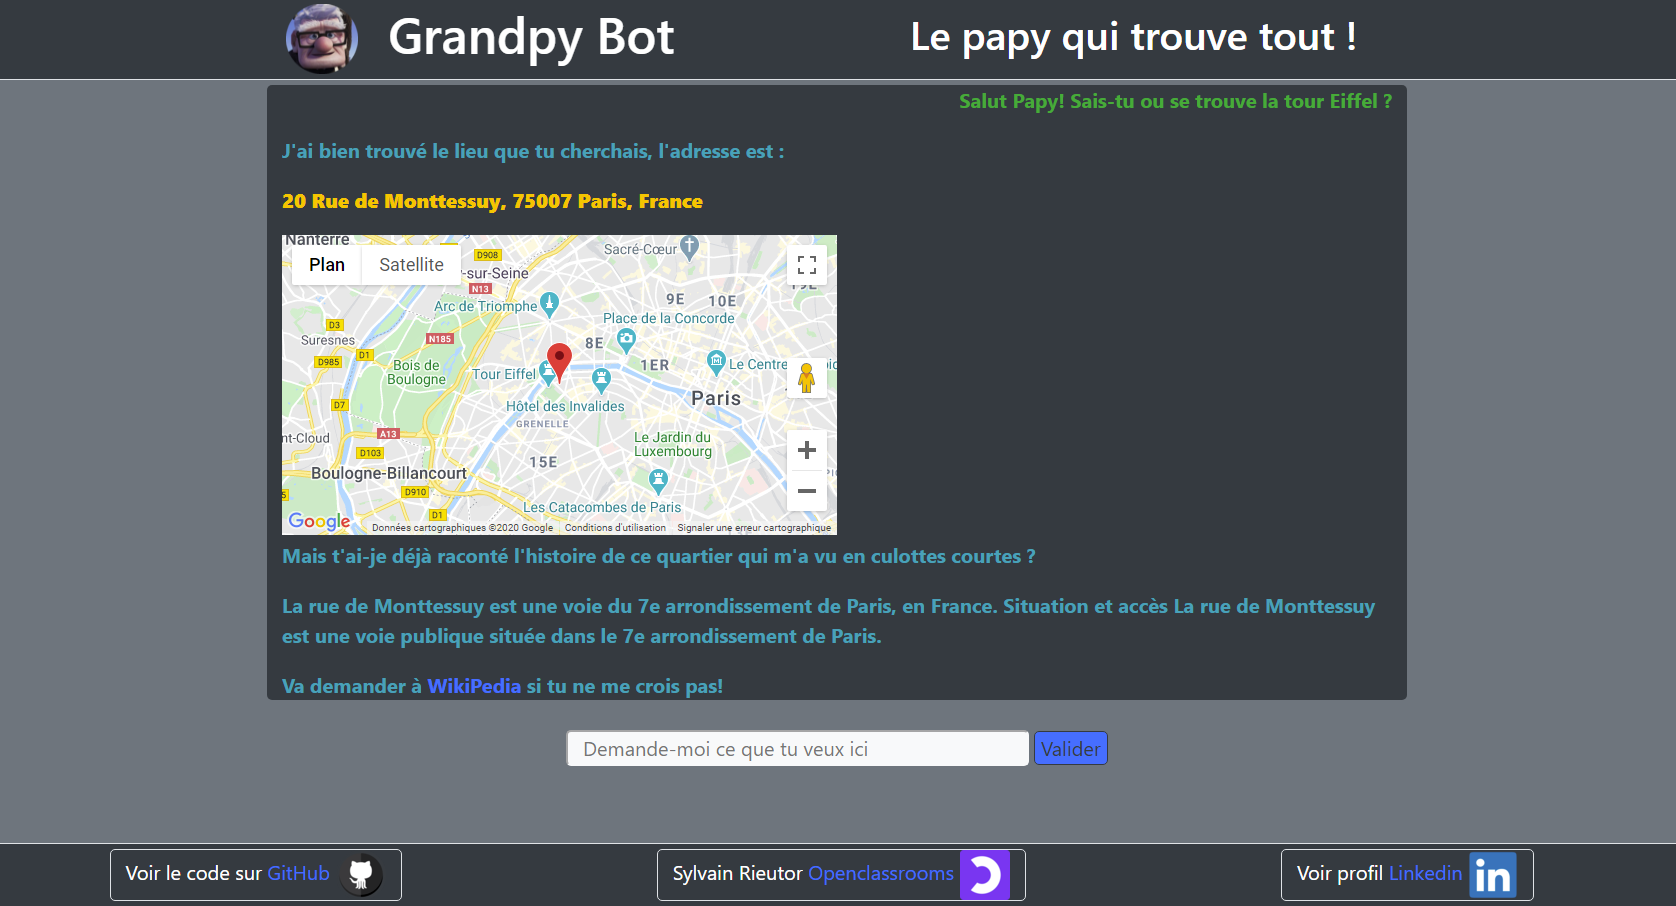
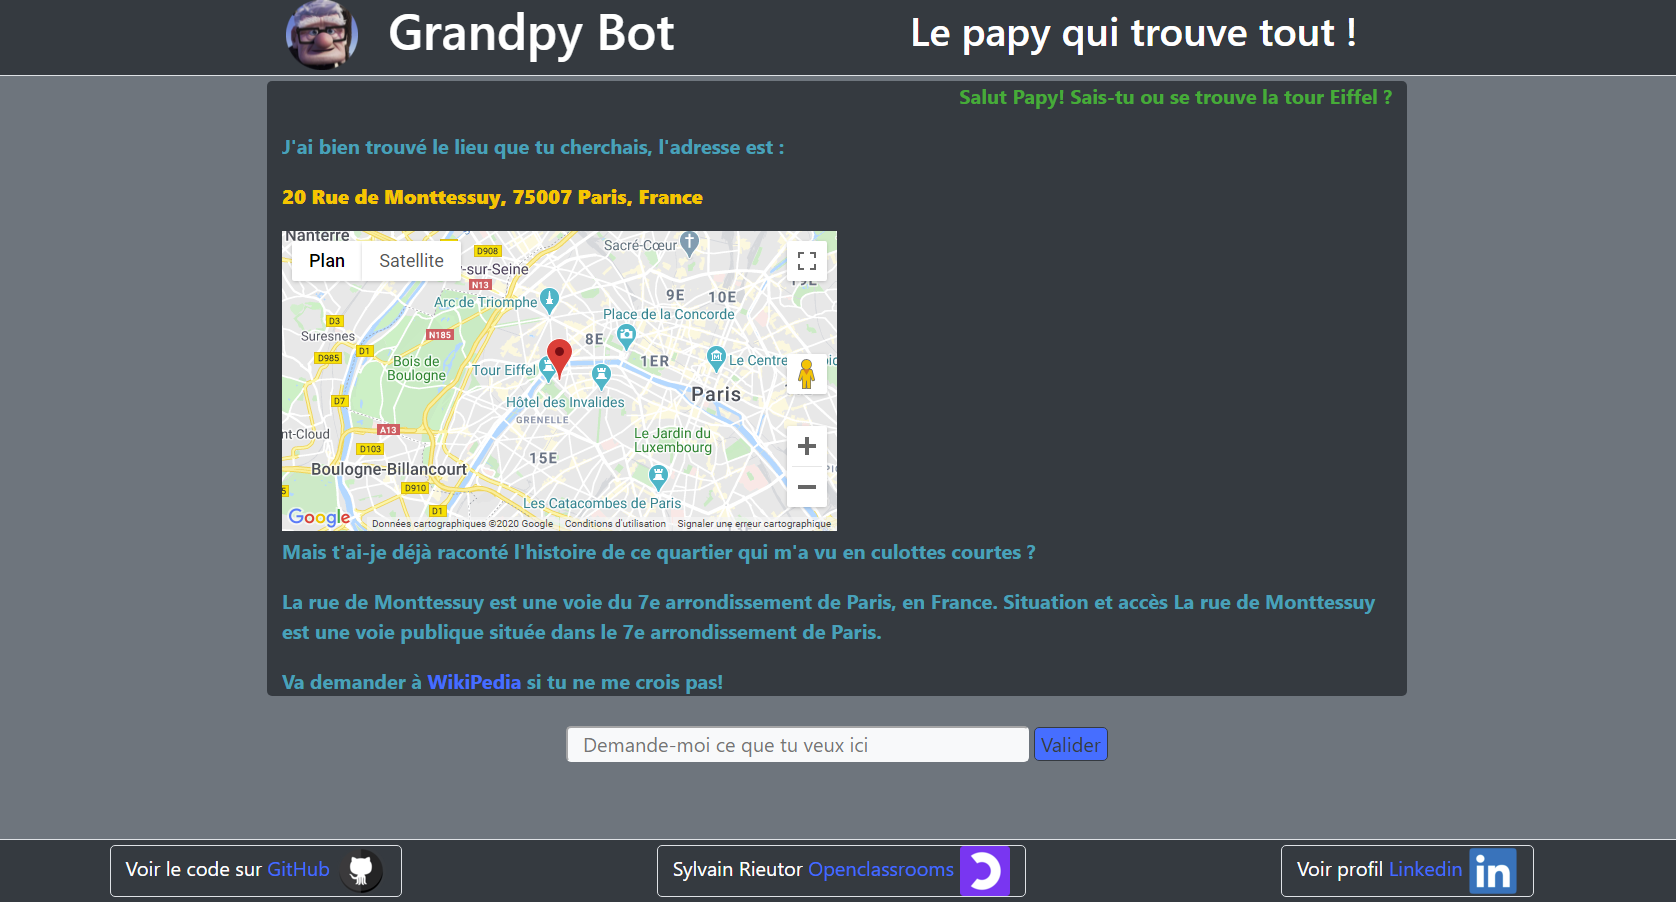
change Js and readme

diff --git a/app/static/js/index.js b/app/static/js/index.js
@@ -48,9 +48,16 @@ function grandpy(response) {
 
   if (fullurl != "") {
     var newP = elt.appendChild(document.createElement("p"));
+    newP.id = 'link';
     newP.innerHTML += (
-      "Va demander à <a id='link' href=" + fullurl + " target=_blank>WikiPedia</a> si tu ne me crois pas!"
+      "Si tu en veux plus, vas voir sur "
     );
+
+    let link = $("#link")[0];
+    var newA = link.appendChild(document.createElement("a"));
+    var linkText = document.createTextNode("Wikipedia");
+    newA.appendChild(linkText);
+    newA.href = fullurl;
   };
   
 window.scrollTo(0,document.body.scrollHeight);

diff --git a/README.md b/README.md
@@ -1,24 +1,27 @@
 <p align="center">
     <img width=50% src="https://github.com/sylrie/P7_GrandPy/blob/master/app/static/img/P7_logo.png">
 </p>
+
 <p align="center">
-    <img width=25% src="https://github.com/sylrie/P7_GrandPy/blob/master/app/static/img/logo.png">
+    <img width=45% src="https://github.com/sylrie/P7_GrandPy/blob/master/app/static/img/googlemaps.png">
+    <img width=45% src="https://github.com/sylrie/P7_GrandPy/blob/master/app/static/img/MediaWiki.png">
 </p>
 
+> Web application with Python, Flask and JavaScript(AJAX)
 
-> PROJECT 7 OpenClassrooms - GrandPy Bot -
+## GET STARTED
+* click (or copy/paste) this url:
+  https://srgrandpybot.herokuapp.com
+
+## FEATURES
+* Ask Grandpy about any places,
+* He will find the address and show you on a map,
+* Then he will tell you a story about this place.
+
+
+
+## SCREENSHOTS
 <p align="center">
     <img width=45% src="https://github.com/sylrie/P7_GrandPy/blob/master/app/static/img/screenshot1.png">
     <img width=45% src="https://github.com/sylrie/P7_GrandPy/blob/master/app/static/img/screenshot2.png">
 </p>
-
-## FEATURES
-<p>* text</p>
-<p>* text</p>
-<p>* text</p>
-
-## REQUIREMENTS
-<p>* text</p>
-<p>* text</p>
-<p>* text</p>
-
